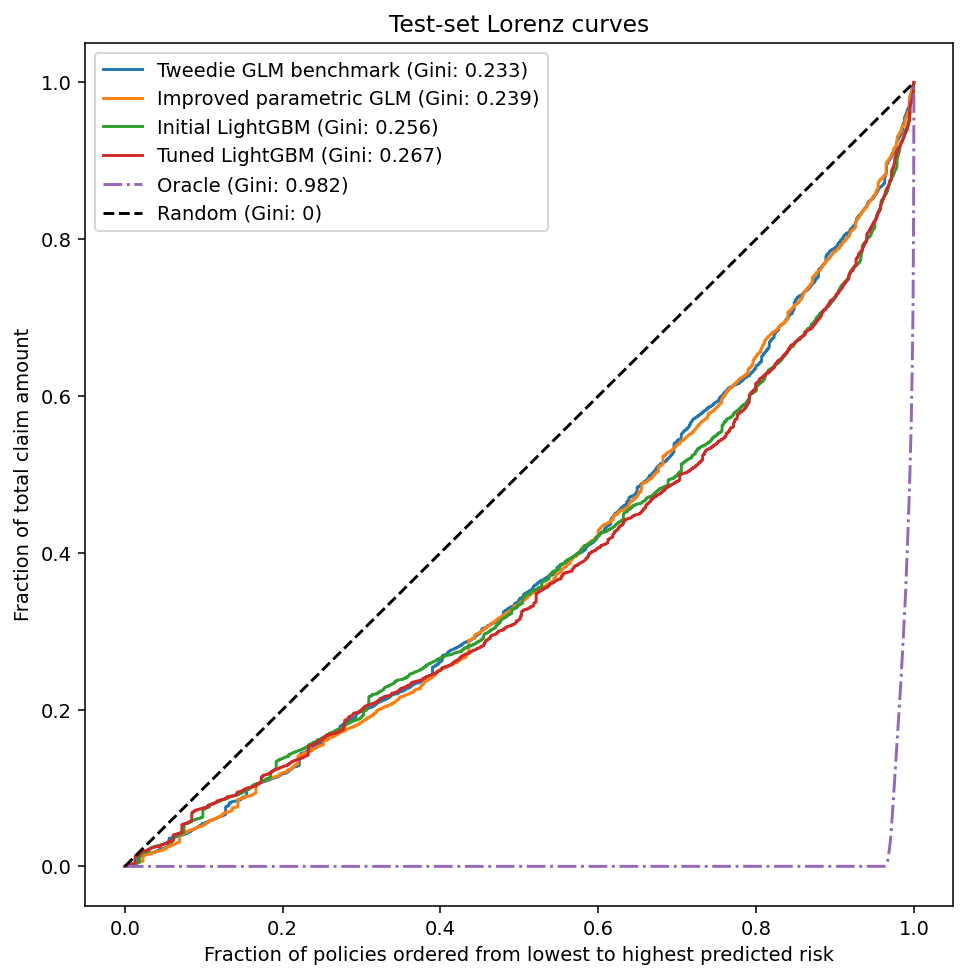
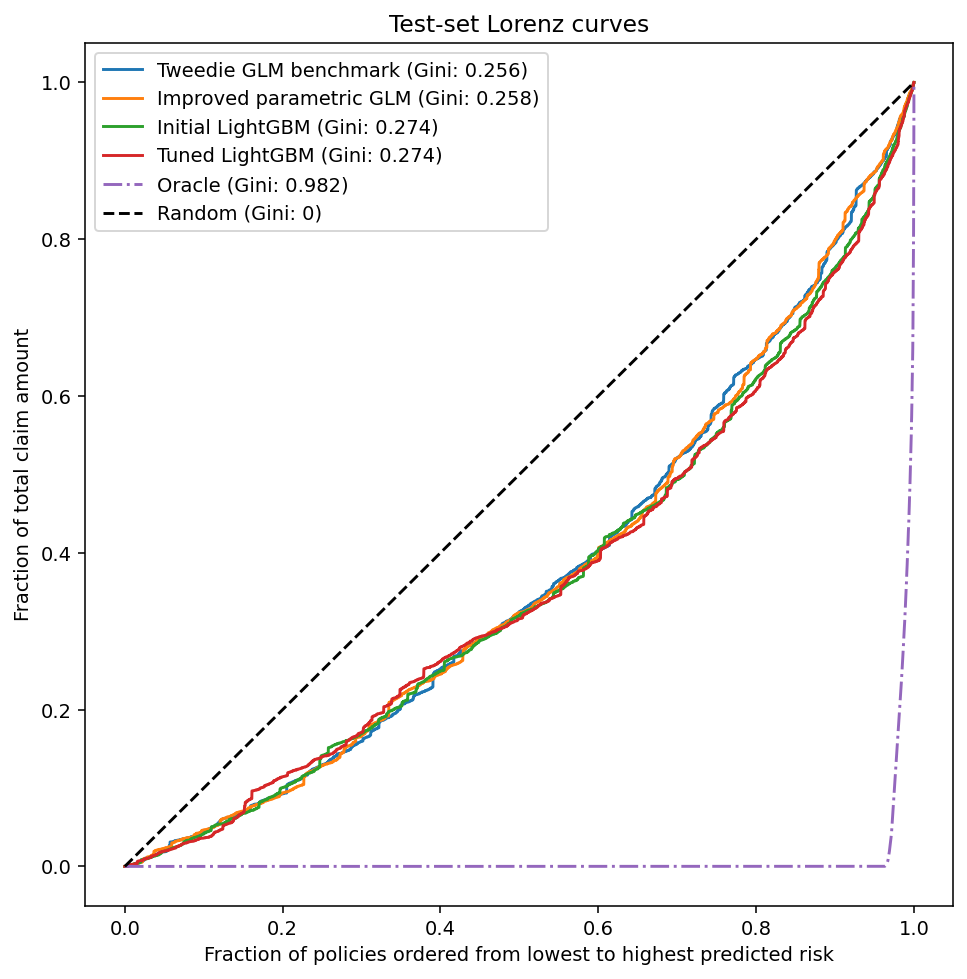
Rerun all models on merged normalized-ID split

diff --git a/results/final_comparison.md b/results/final_comparison.md
@@ -1,31 +1,31 @@
-# Final common model comparison — 20 November 2026
+# Four-model comparison on the merged normalized-ID split — 20 November 2026
 
-All four member implementations were refitted locally using the instructor OpenML loader, the shared PurePremium target, Exposure weights and Tweedie power 1.5. There are 542,605 training and 135,408 test policies. The test clipped claim amount is 9,978,366.81. No member model method was changed by C.
+All four models were refitted together after Ex1 PR #10 merged the normalized-ID split into main (76d9970; main merge c5b3b6b). The former PR #11 split is superseded for this report: 217,325 policy assignments changed. No metric or curve from the former split is mixed into the current comparison. The same 678,013 instructor-transformed policies are used, with 542,286 training and 135,727 test policies. Test clipped claims total 10,041,931.48. The target is ClaimAmountCut / Exposure, weights are Exposure and Tweedie power is 1.5.
 
 | Model | Train deviance | Test deviance | Test − train | Test Gini | Predicted test claims | Relative claim error |
 | --- | ---: | ---: | ---: | ---: | ---: | ---: |
-| Tweedie GLM benchmark | 73.525995 | 74.735057 | 1.209062 | 0.232849 | 9,922,993.11 | -0.55% |
-| Improved parametric GLM | 73.530198 | 74.534158 | 1.003960 | 0.238912 | 9,840,562.74 | -1.38% |
-| Initial LightGBM | 64.545789 | 74.669387 | 10.123598 | 0.256496 | 8,193,846.90 | -17.88% |
-| Tuned LightGBM | 66.425334 | 74.138050 | 7.712716 | 0.267243 | 8,496,582.42 | -14.85% |
+| Tweedie GLM benchmark | 73.485505 | 74.897049 | 1.411544 | 0.256255 | 9,988,382.48 | -0.53% |
+| Improved parametric GLM | 73.466040 | 74.814510 | 1.348469 | 0.257554 | 9,957,587.03 | -0.84% |
+| Initial LightGBM | 64.577274 | 74.751332 | 10.174058 | 0.273634 | 8,324,414.59 | -17.10% |
+| Tuned LightGBM | 66.412966 | 74.291639 | 7.878672 | 0.274197 | 8,605,090.30 | -14.31% |
 
-## Interpretation
+## Interpretation and limitations
 
-Tuned LightGBM has the lowest observed test deviance and highest Gini in this comparison. Initial LightGBM and the benchmark GLM have very similar test deviances. No confidence interval or significance test was computed, so small differences should not be interpreted as established superiority.
+Tuned LightGBM has the lowest observed test deviance. Its Gini is only slightly above the initial LightGBM’s; no uncertainty or significance analysis was performed. D’s quadratic GLM improves slightly over the benchmark GLM in observed deviance, while both have very similar risk ranking. These differences should not be interpreted as statistically established superiority.
 
-The initial LightGBM train–test gap is 10.123598 versus 7.712716 after tuning. E selected learning_rate=0.03 and n_estimators=300 using training-only three-fold CV: mean validation deviance 73.723996 versus 74.264281 for initial parameters. The larger tree-model gaps are consistent with greater in-sample flexibility; a gap alone does not prove overfitting. Every fold fitted a fresh full preprocessing/model pipeline. All 18 reproduced fold scores match E’s original results within 5.7e-14.
+The initial LightGBM train–test gap is 10.174058, compared with 7.878672 after tuning. E’s unchanged full training-only three-fold CV selected learning_rate=0.03 and n_estimators=300, with mean validation deviance 73.831160 versus 74.509440 for the initial parameters. Each fold fits a fresh complete preprocessing/model pipeline; the selected model is refitted on all current training policies. These CV numbers differ from E’s published historical report because the training membership changed. Historical scores were not reused or represented as the present run.
 
-The benchmark GLM has the smallest absolute aggregate claim error here (−0.55%); the quadratic GLM is also close (−1.38%). Both LightGBMs underpredict total claims substantially (−17.88% and −14.85%). Aggregate totals measure only one aspect of calibration and do not establish calibration within risk groups. The GLMs provide coefficients and explicit feature transforms; trees capture nonlinearities/interactions with less direct interpretation.
+The GLMs have much smaller aggregate test claim bias (approximately −0.53% benchmark and −0.84% quadratic) than the LightGBMs (−17.10% initial, −14.31% tuned). Aggregate totals are only one aspect of calibration and do not prove calibration within risk groups. The GLMs retain explicit coefficients/transforms; boosted trees offer nonlinearities and interactions with less direct interpretation. Large train–test gaps are diagnostics, not proof of overfitting by themselves.
 
-**D selection limitation:** D’s handover notes describe choosing the quadratic specification after inspecting test-tail behaviour and alternatives. Its test score is exploratory, not untouched validation of the model-selection procedure. No test leakage was found in the actual training preprocessing, but this selection-stage reuse cannot be undone by refitting. Independent validation would be needed for an unbiased model-selection comparison. C preserves D’s handed-over specification and reports this limitation rather than selecting another model from the test scores.
+**D selection limitation:** D chose the quadratic specification after inspecting test-tail behaviour on the earlier split of this same dataset. Repartitioning and refitting does not make this an independent model-selection test. D’s score remains exploratory and would need genuinely independent validation for an unbiased selection comparison. C preserves D’s handed-over method instead of choosing another specification using the new test scores. The actual preprocessing and E’s CV remain training-only.
 
-## Curves and metric conventions
+## Lorenz/Gini conventions
 
-The figure ranks each model’s predicted pure premiums from low to high; the horizontal axis is fraction of policies, and the vertical axis is cumulative observed PurePremium × Exposure, i.e. ClaimAmountCut. Curves start at (0,0), group tied predictions and finish at (1,1). Gini is unnormalized 1−2×AUC. Random is the diagonal. The teacher’s Oracle ranks by observed PurePremium; with unequal exposures it is a reference curve, not necessarily the mathematical maximum of a policy-count Gini.
+Each model is ranked by predicted pure premium. The horizontal axis is fraction of policies; the vertical axis accumulates observed PurePremium × Exposure, i.e. ClaimAmountCut. Curves start at (0,0), group tied predictions and end at (1,1). Gini is unnormalized 1−2×AUC. Random is the diagonal. The teacher’s Oracle ranks observed PurePremium; with unequal exposures it is a reference, not necessarily the ordering that maximizes policy-count Gini. The final figure includes all four verified models plus Oracle and Random.
 
-`verification_status` labels newly fitted outputs. `gini_status` distinguishes values recomputed from policy predictions from prior prediction-validated values retained in offline summaries. E’s published historical outputs remain unchanged; this report uses the independently fitted common outputs in `results/evaluated/`.
+`verification_status` identifies locally refitted records. `gini_status` distinguishes newly recomputed values from previously prediction-validated values retained by an offline summary. The old member-published JSONs remain historical records; the authoritative current outputs are in `results/evaluated/`.
 
-## Reproduction and evidence
+## Reproduce and verify
 
 ```bash
 python -m analyses.ps3_script all --save-data data/shared_final.parquet
@@ -34,20 +34,20 @@ python -m pytest
 pre-commit run --all-files
 ```
 
-Choose a new cache filename if it exists. The successful local run used `data/final_shared_20261120.parquet` and the independent compare used that cache. An earlier stalled OpenML read was interrupted; the retry succeeded with the bounded-read entry point. The loader and its transformations are unchanged. Raw data, caches, logs, per-policy predictions and previous-result archives are local only. Prior outputs are archived under `data/run_backups/` before replacement.
+Choose a new cache filename if it exists. The instructor loader was used successfully in this session after a stalled connection and retry. The final normalized-split run reused exactly that prepared data, reconstructed membership with the new official function and saved `data/final_shared_normalized_20261120.parquet`. Its separate cached compare run independently verified the final table and figure. Prior results are archived under gitignored `data/run_backups/`; per-policy predictions, caches, raw data and logs are local only.
 
-GLM converged in 3 iterations (limit 100), with convergence warnings treated as errors. Both sample deviances were checked against glum; the independent test rescore checked all four models against glum as well as sklearn, exact ID alignment, target equality and positive weights/predictions. The separate cached `compare` run reproduced the report and figure. An offline JSON summary also retained all four verified Ginis.
+GLM converged in 3 iterations (limit 100), with convergence warnings treated as errors. Both GLM sample scores agree between sklearn and glum. Independent test rescoring checked all four models against both deviance implementations, the exact policy-ID order/membership, positive weights/predictions, target equality, fingerprints and aggregate claim totals. An offline summary retained all four verified Ginis.
 
-Full suite: **53 passed, no skipped tests** (including 27 C tests and B’s 12 Winsorizer tests). Pre-commit checks pass. Matplotlib emits dependency deprecation warnings, not model convergence warnings. The previously failing placeholder tests were replaced through integration of B’s existing main commits, without modifying B’s implementation or deleting tests.
+Full suite after the official split update: **57 passed, no skipped tests**, including 27 C tests, 12 Winsorizer tests and 17 split tests. Pre-commit checks pass. Matplotlib emits dependency deprecation warnings, not model convergence warnings. B’s original main implementation/tests replace the old placeholders through their existing Git history. The integration additionally fixes loss of verified Ginis during offline or partial summaries.
 
[2 lines of base64/hex data omitted]
 
[2 lines of base64/hex data omitted]
 
-Run provenance in each evaluated JSON records source-file hashes, package versions, timestamp and source commit `f8c03f9`. This distinguishes the executed implementation from later documentation-only commits.
+Each evaluated JSON records source-file hashes, versions, timestamp and source commit `350f055db87ed8c399307c81f1bc4dbd3c49ebb0`. Later report-only commits do not change the model specification.
 
-## Ownership and integration dependencies
+## Ownership and PR dependencies
 
-A: split and initial LightGBM (#11, 83f6f88). B: Winsorizer already on main (23569fd). E: CV/tuning (#12, 8e9340f). D: quadratic GLM (#14, 54558d1). These source files are byte-for-byte identical to their owner branches. C supplies shared orchestration, adapters, validation, tests and the common results.
+A: split and initial LightGBM (#10/#11). B: Winsorizer on main. E: unchanged tuning/CV (#12, 8e9340f). D: unchanged quadratic GLM (#14, 54558d1). All member implementations match their owner branches; the splitter matches merged main’s normalized version. C owns the shared orchestration, evaluation adapters, validation, tests and combined outputs.
 
-`integration/part-c-dependencies` is a review base containing those histories. PR #13 targets that base to keep C’s diff focused while member PRs remain open. It is not a merge into main. The repository owner must coordinate member PR merges and later retarget C to finalized main, then rerun if data/split/model code changes. No new D handover is required for this comparison; D’s delivered model and its selection limitation are now integrated.
+`integration/part-c-dependencies` is the review base containing the member histories and the merged Ex1 fix. PR #13 targets it to keep C’s diff focused while member PRs remain open. It is not a merge into main. The repository owner must coordinate the pending member PRs and later retarget C to finalized main; rerun if the data, split or model sources change. The D handover is available and integrated, with its selection limitation explicit.

diff --git a/README.md b/README.md
@@ -143,6 +143,12 @@ PRs are pending; it is not a merge into `main`. C's additional changes are the
 shared orchestration, evaluation, tests and common report. No member model method
 is reimplemented by the integration layer.
 
+The final comparison follows the normalized-ID split merged in Ex1 PR #10
+(`76d9970`, main merge `c5b3b6b`). This changes policy membership relative to the
+earlier PR #11 split. All four models were rerun together; the member-published
+historical JSONs retain their original split and are not substituted into the
+new comparison. Use the common evaluated records and exact fingerprints.
+
 For an independent rescore without downloading OpenML again, explicitly save a
 prepared local cache on the first run (choose a new cache filename if it exists):
 
